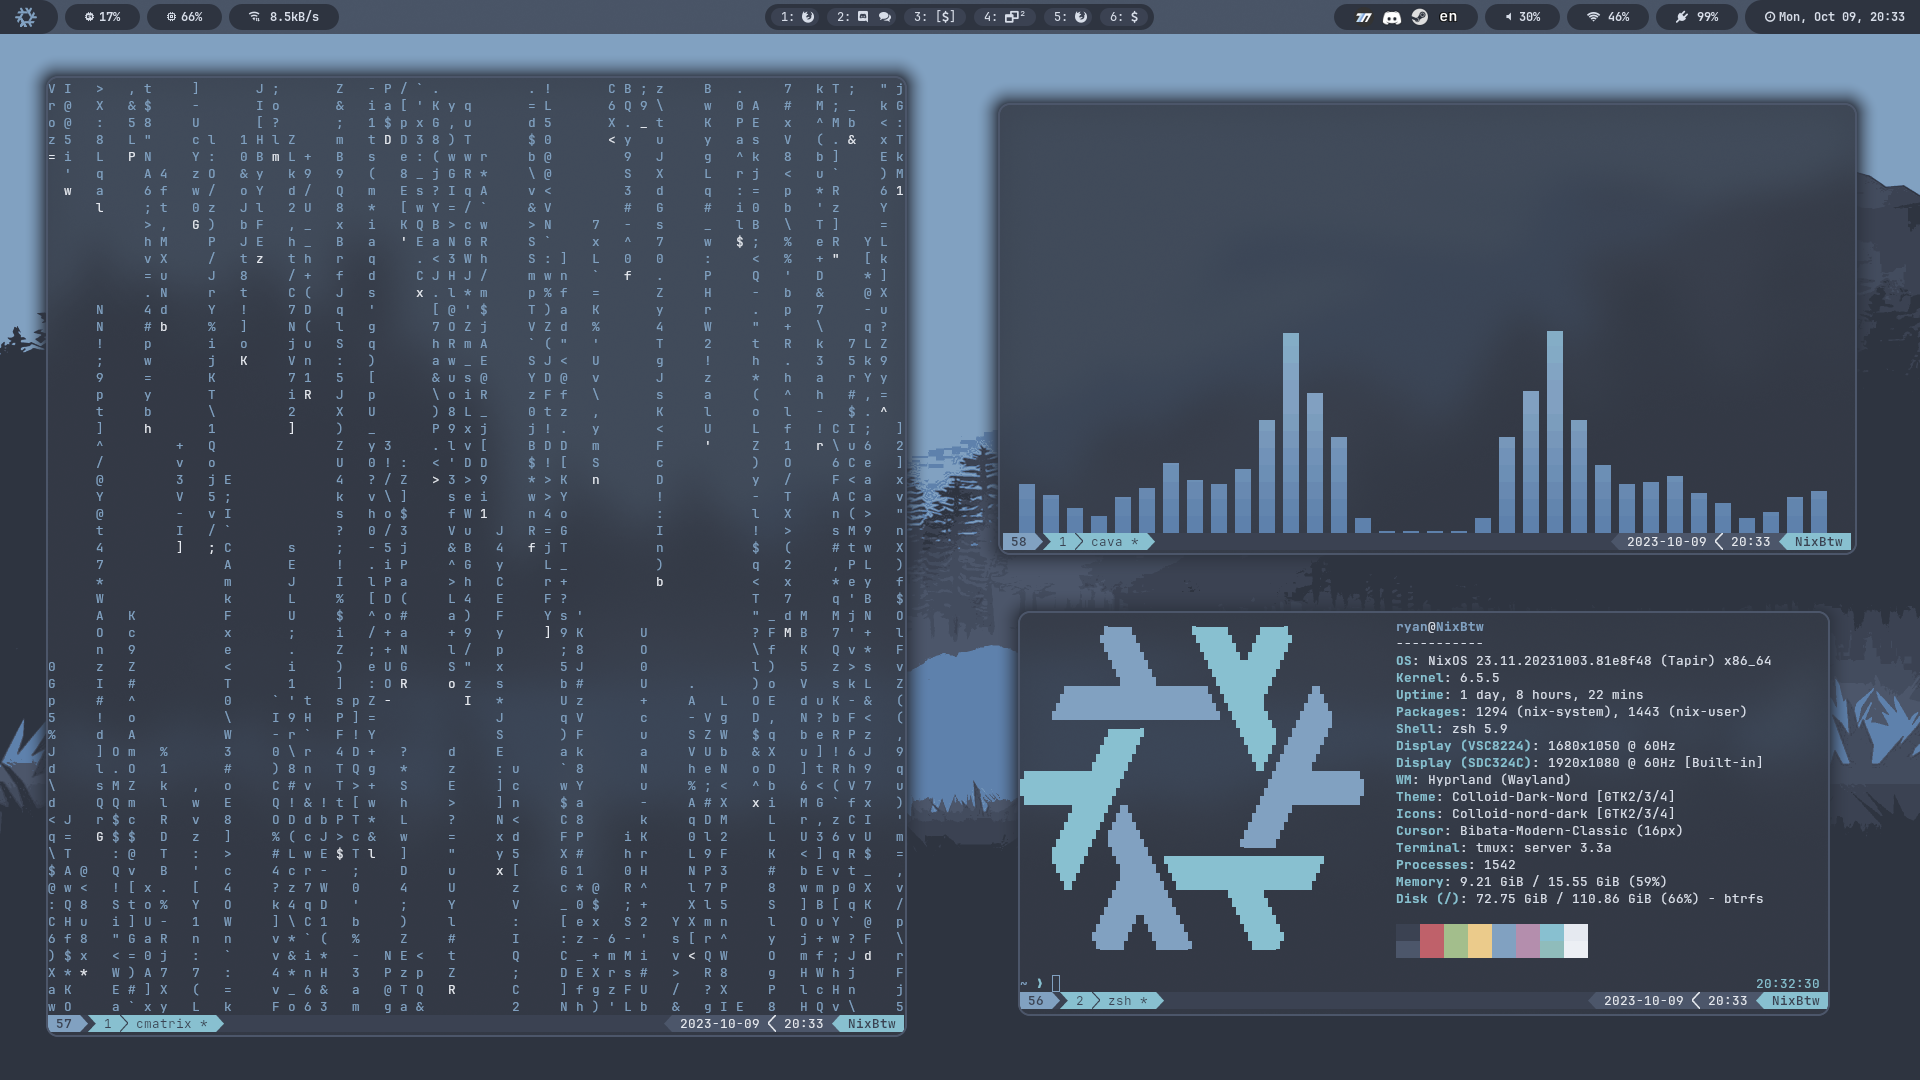
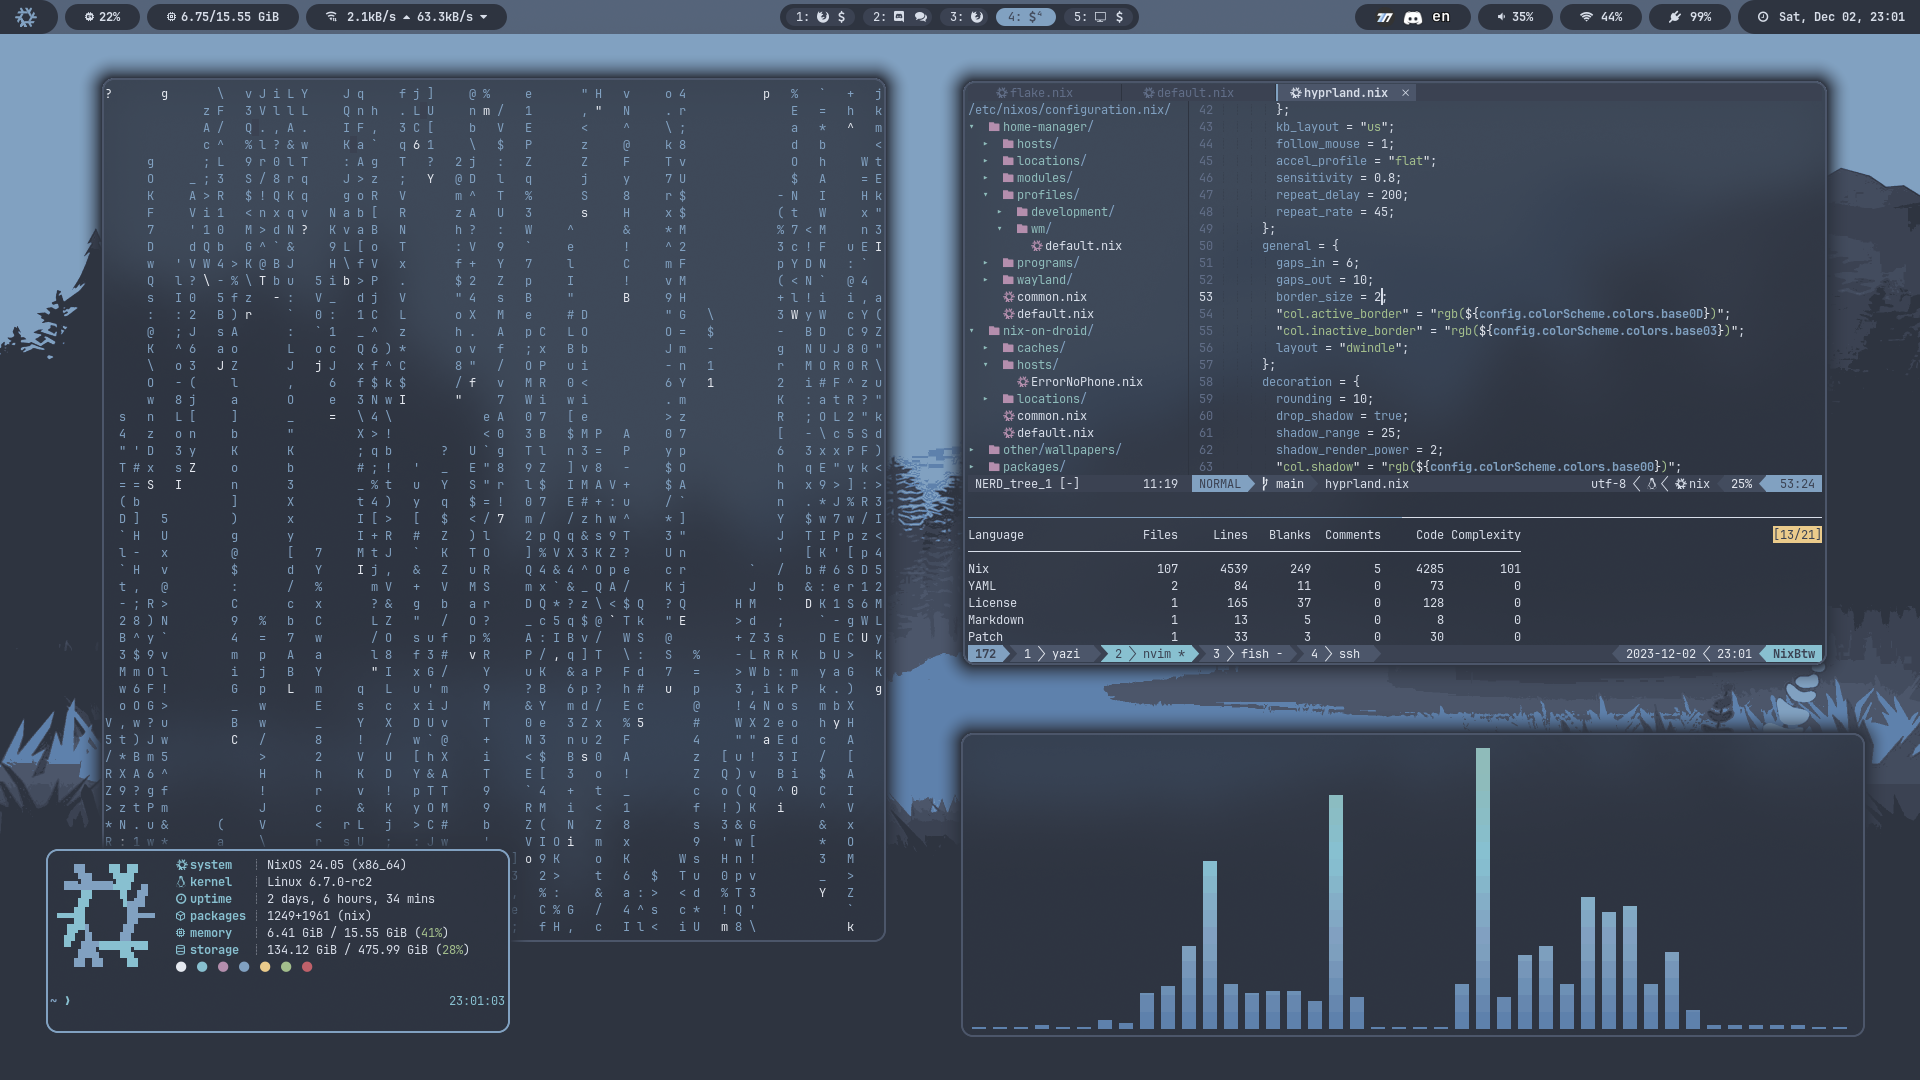
refactor(README): add contents & update screenshot

diff --git a/README.md b/README.md
@@ -1,6 +1,22 @@
-# configuration.nix
-NixOS configuration files for my workstations and servers, home-manager, and Nix-on-Droid.
+# ❄ configuration.nix
 
-## Screenshots
-### ryan@NixBtw (workstation)
+Nix flake for my workstations, servers, home-manager configuration, and a lot more.
+
+## 📁 Contents
+
+- [shared](/shared): shared modules (and binary caches) applied everywhere
+- [packages](/packages): some patches and bash scripts to make my life easier
+- [workstations](/workstations): system configuration for my laptops and desktops
+- [servers](/servers): system configuration for some of my dedicated servers 
+- [home-manager](/home-manager): user configuration for my workstations and servers
+- [nix-on-droid](/nix-on-droid): terminal configuration for my phone ([Nix-on-Droid](https://github.com/nix-community/nix-on-droid))
+
+## 🖥 Screenshots
+
 ![screenshot0](./screenshots/screenshot0.png)
+
+## 💾 Inspiration
+
+- https://github.com/fufexan/dotfiles
+- https://github.com/Mic92/dotfiles
+- https://github.com/workflow/dotfiles
